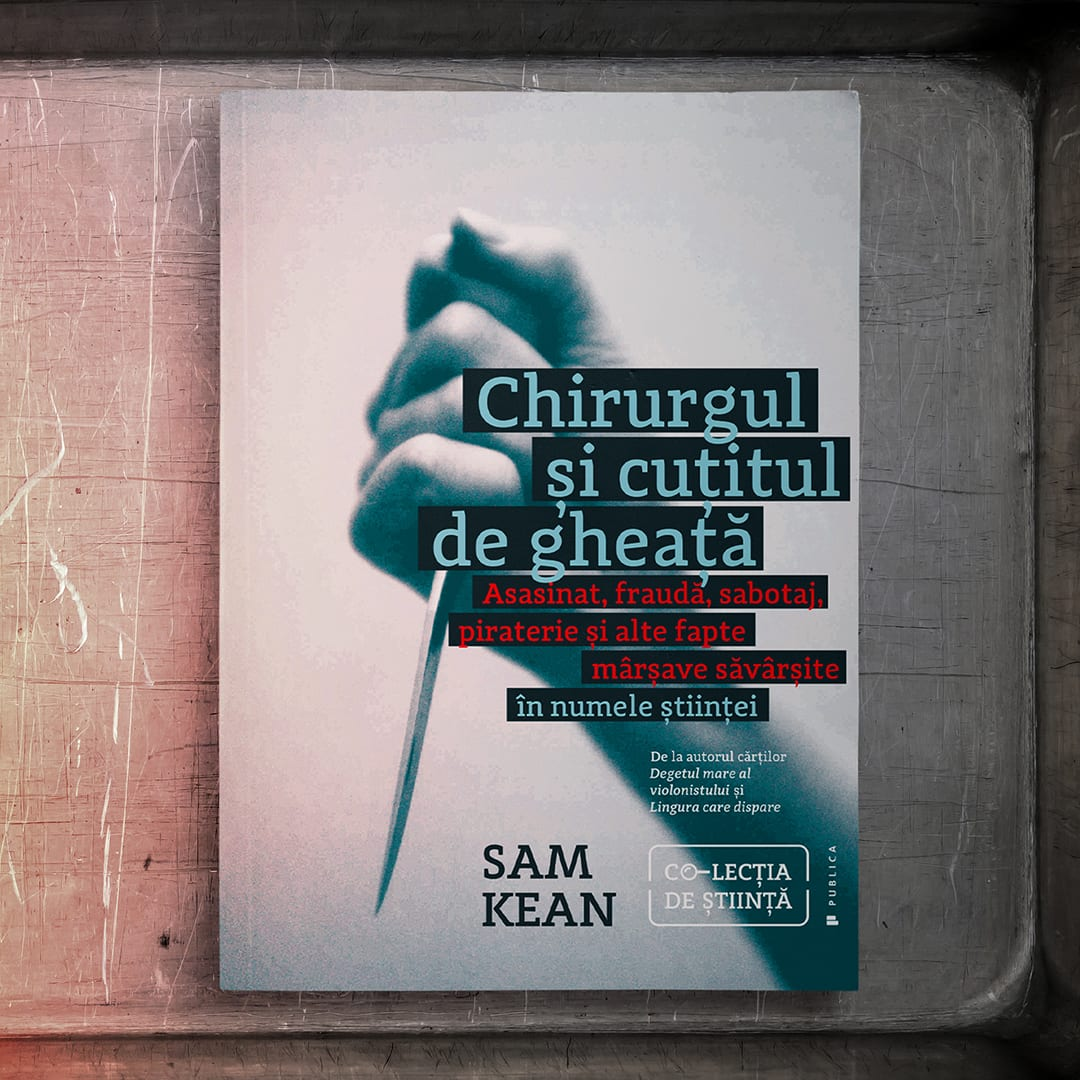
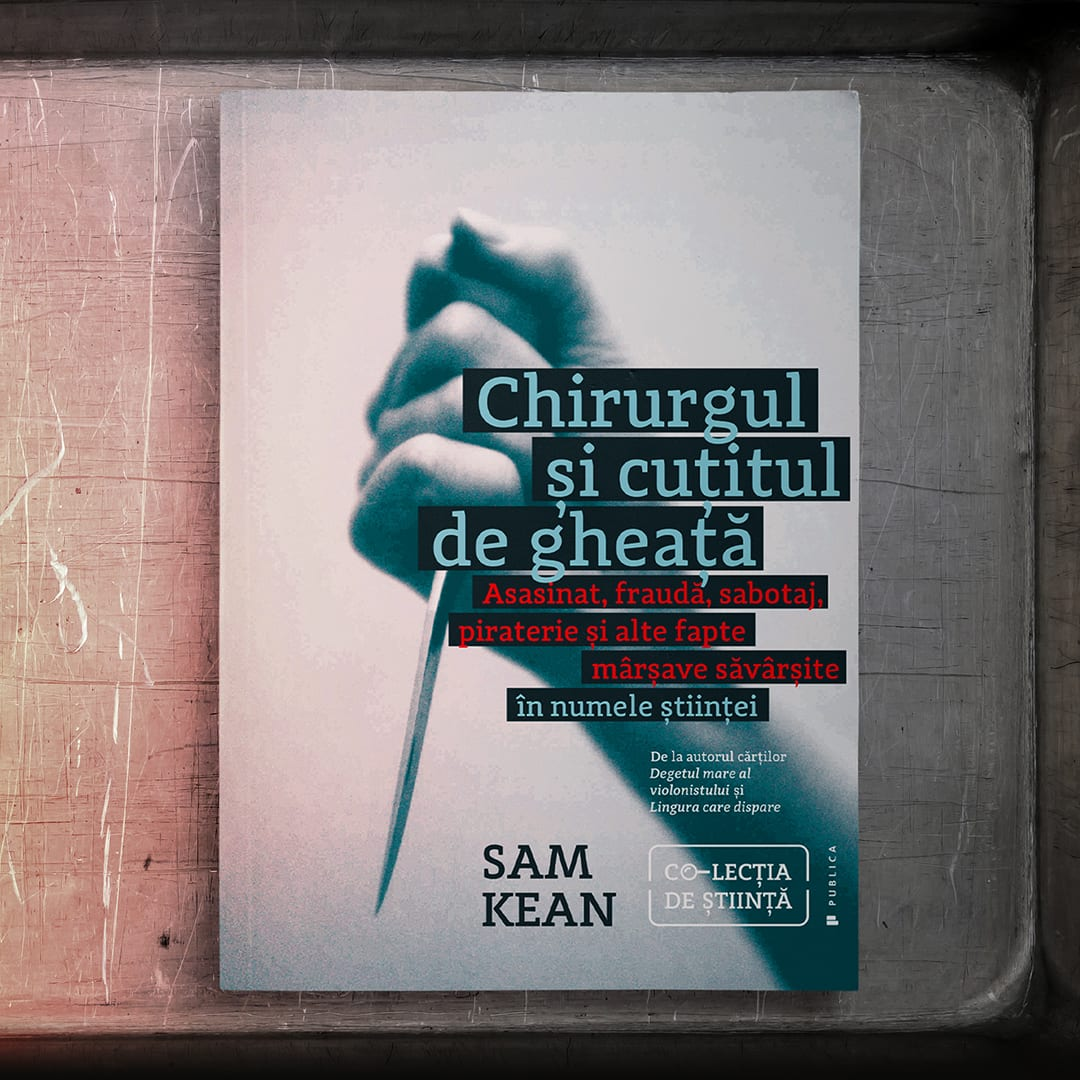
2022_02_08: Colorscheme, hero image bottom fade

Changed region(s): [[0.0, 0.9472, 0.8861, 1.0]]

diff --git a/2022/02_08/publica.ro-2022_02_08-R-dev.html b/2022/02_08/publica.ro-2022_02_08-R-dev.html
@@ -146,10 +146,10 @@
 						<a title="Chirurgul și cuțitul de gheață | Sam Kean | Editura Publica" href="https://www.publica.ro/sam-kean-chirurgul-si-cutitul-de-gheata.html" target="_blank" style="text-decoration: none; border: none !important;">
 							<img alt="Coperta cărții „Chirurgul și cuțitul de gheață”"
 								src="https://newsletter.publica.ro/2022/02_08/img/publica.ro-2021_02_08-chirurgul_si_cutitul_de_gheata-nl-hero.jpg"
-								width="700" border="0" style="display: block; max-width: 100%; min-width: 100px; width: 100%; margin: 0; font-family: 'Piazzolla', serif; font-size: 20px; font-weight: 400; line-height: 32px; background-color: #4cdebe; color: #000000;">
+								width="700" border="0" style="display: block; max-width: 100%; min-width: 100px; width: 100%; margin: 0; font-family: 'Piazzolla', serif; font-size: 20px; font-weight: 400; line-height: 32px; background-color: #0b0a08; color: #ffffff;">
 						</a>
-						<div style="background-color: #ffee00; padding: 40px 90px 40px 90px; border-radius: 0px 0px 24px 24px;" class="section border_radius-toggle">
-							<a class="button button_big button_primary" href="https://www.publica.ro/sam-kean-chirurgul-si-cutitul-de-gheata.html" target="_blank" style="background-color: #00867e; color: #ffffff; width: 280px; display: block; font-family: 'Space Grotesk', sans-serif; font-size: 18px; -webkit-text-size-adjust: none; font-weight: 500; line-height: 72px; letter-spacing: 0.5px; text-decoration: none; text-align: center; margin: 0 auto; border-radius: 12px; transition: background-color 0.4s ease;" title="Comandă cartea „The Food Mood Connection”">Comandă cartea</a>
+						<div style="background-color: #0b0a08; padding: 40px 90px 40px 90px; border-radius: 0px 0px 24px 24px;" class="section border_radius-toggle">
+							<a class="button button_big button_primary" href="https://www.publica.ro/sam-kean-chirurgul-si-cutitul-de-gheata.html" target="_blank" style="background-color: #ec000c; color: #ffffff; width: 220px; display: block; font-family: 'Space Grotesk', sans-serif; font-size: 18px; -webkit-text-size-adjust: none; font-weight: 500; line-height: 58px; letter-spacing: 0.5px; text-decoration: none; text-align: center; margin: 0 auto; border-radius: 12px; transition: background-color 0.4s ease;" title="Comandă cartea „The Food Mood Connection”">Comandă cartea</a>
 						</div>
 					</article>
 
